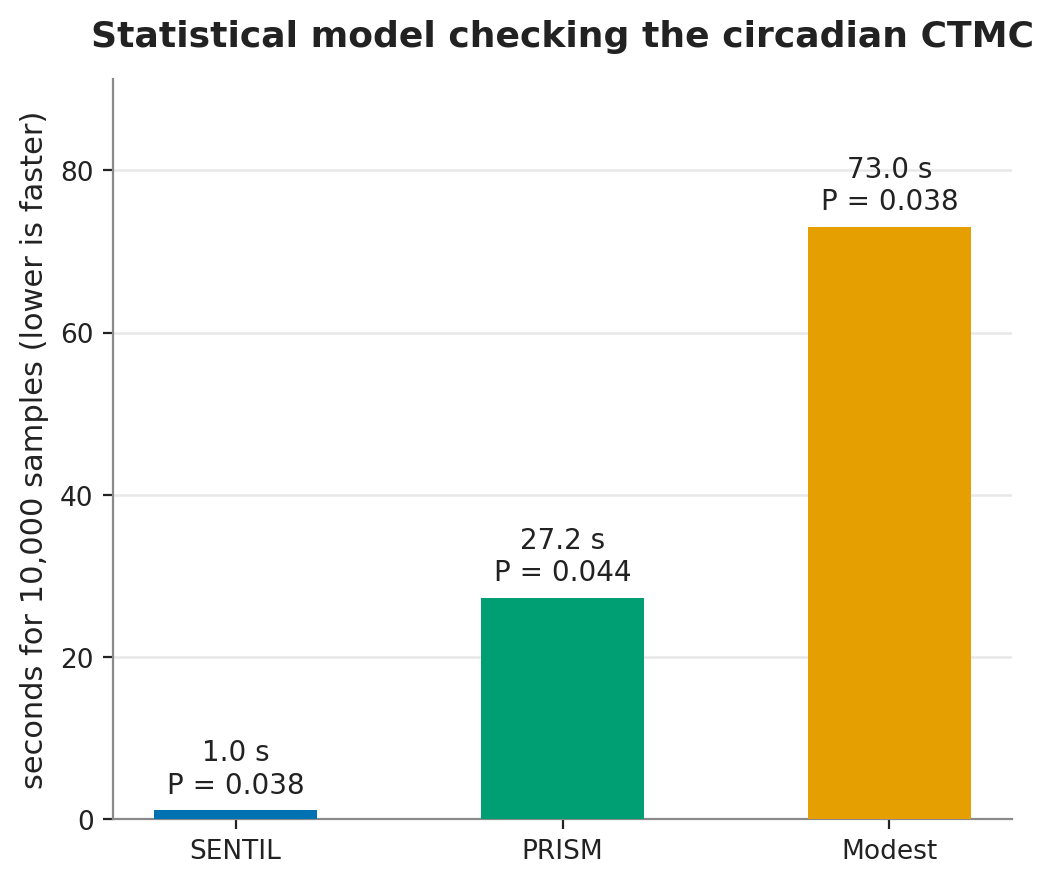
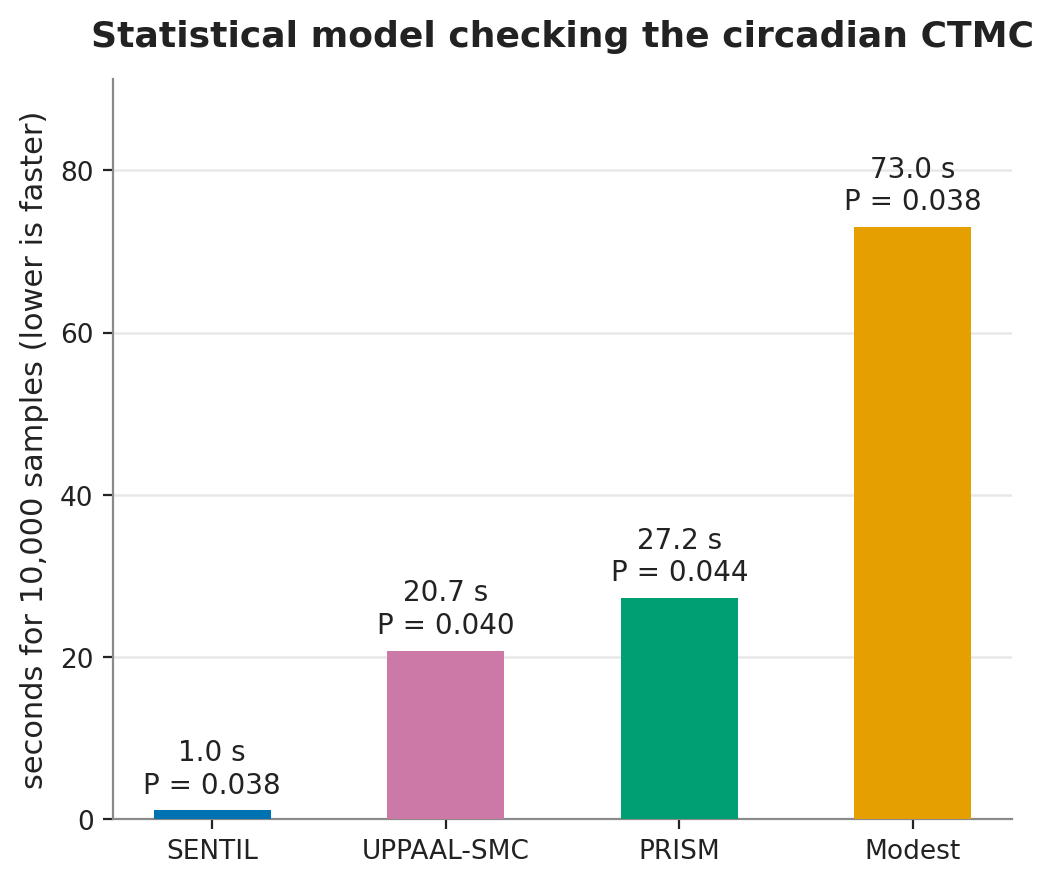
Four bars in the circadian chart, ordered by time

Changed region(s): [[0.334, 0.5803, 0.6983, 0.9774], [0.759, 0.1833, 0.9412, 0.9774], [0.1214, 0.8247, 0.3036, 0.9774]]

diff --git a/benchmarks/runners/plot.py b/benchmarks/runners/plot.py
@@ -284,9 +284,11 @@ def smc_circadian(records):
     if not s or not p:
         return
     bars = [("SENTIL", s, style.TOOL["sentil"]), ("PRISM", p, style.TOOL["prism"])]
-    m = pick("modest")
-    if m:
-        bars.append(("Modest", m, style.TOOL["modest"]))
+    for tool, label in (("modest", "Modest"), ("uppaal", "UPPAAL-SMC")):
+        r = pick(tool)
+        if r:
+            bars.append((label, r, style.TOOL[tool]))
+    bars.sort(key=lambda b: b[1]["time_ms"])
     fig, ax = plt.subplots(figsize=(5.8, 4.8))
     tools = [label for label, _, _ in bars]
     secs = [r["time_ms"] / 1000.0 for _, r, _ in bars]
